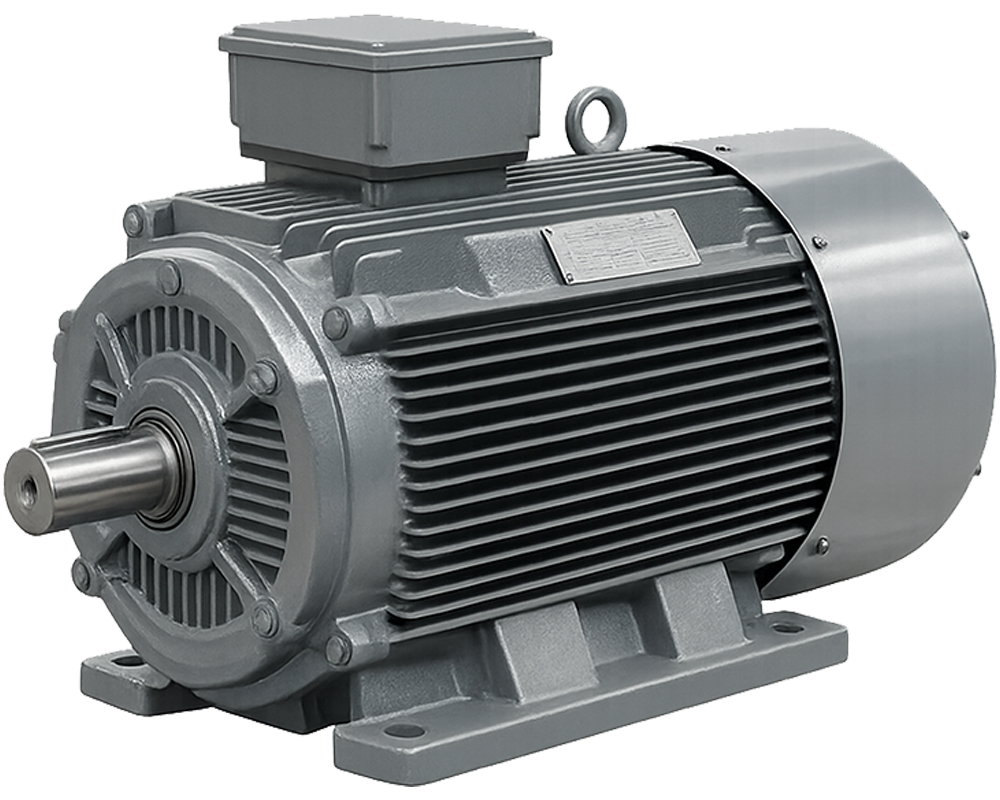
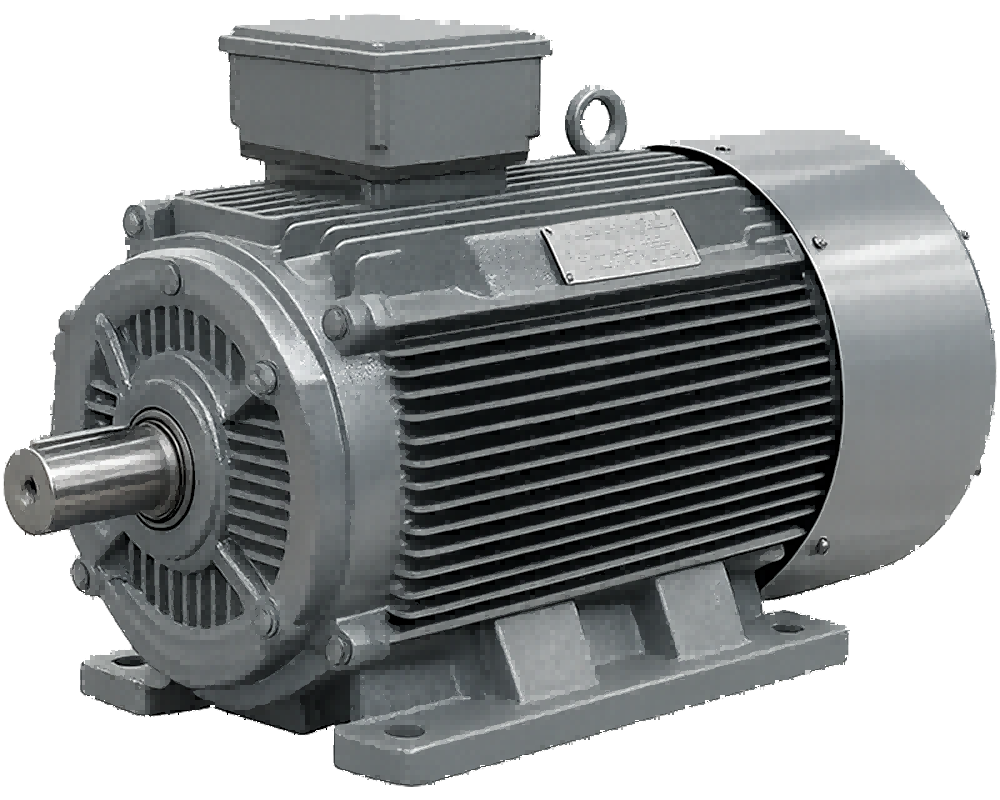
bugfix
1、修复储能和AC/DC图片不显示的异常（文件名中空格导致图片加载错误）
2、压缩电气方案中使用的图片大小，不大于300kb

diff --git a/src/boot/shapes.app/DcAcConverter.ts b/src/boot/shapes.app/DcAcConverter.ts
@@ -1,5 +1,5 @@
 import * as joint from '@clientio/rappid'
-import iconDcac from '../../assets/demoimg/icon-bidirectional_ DCAC_converter.png'
+import iconDcac from '../../assets/demoimg/icon-bidirectional-DCAC-converter.png'
 
 /**
  * 电气组件 双向 DC/AC 交换器（DcAcConverter）

diff --git a/src/boot/shapes.app/EnergyStorage.ts b/src/boot/shapes.app/EnergyStorage.ts
@@ -1,5 +1,5 @@
 import * as joint from '@clientio/rappid'
-import iconEs from '../../assets/demoimg/icon-energy_ storage_system.png'
+import iconEs from '../../assets/demoimg/icon-energy-storage-system.png'
 
 /**
  * 电气组件 储能系统（EnergyStorage）
